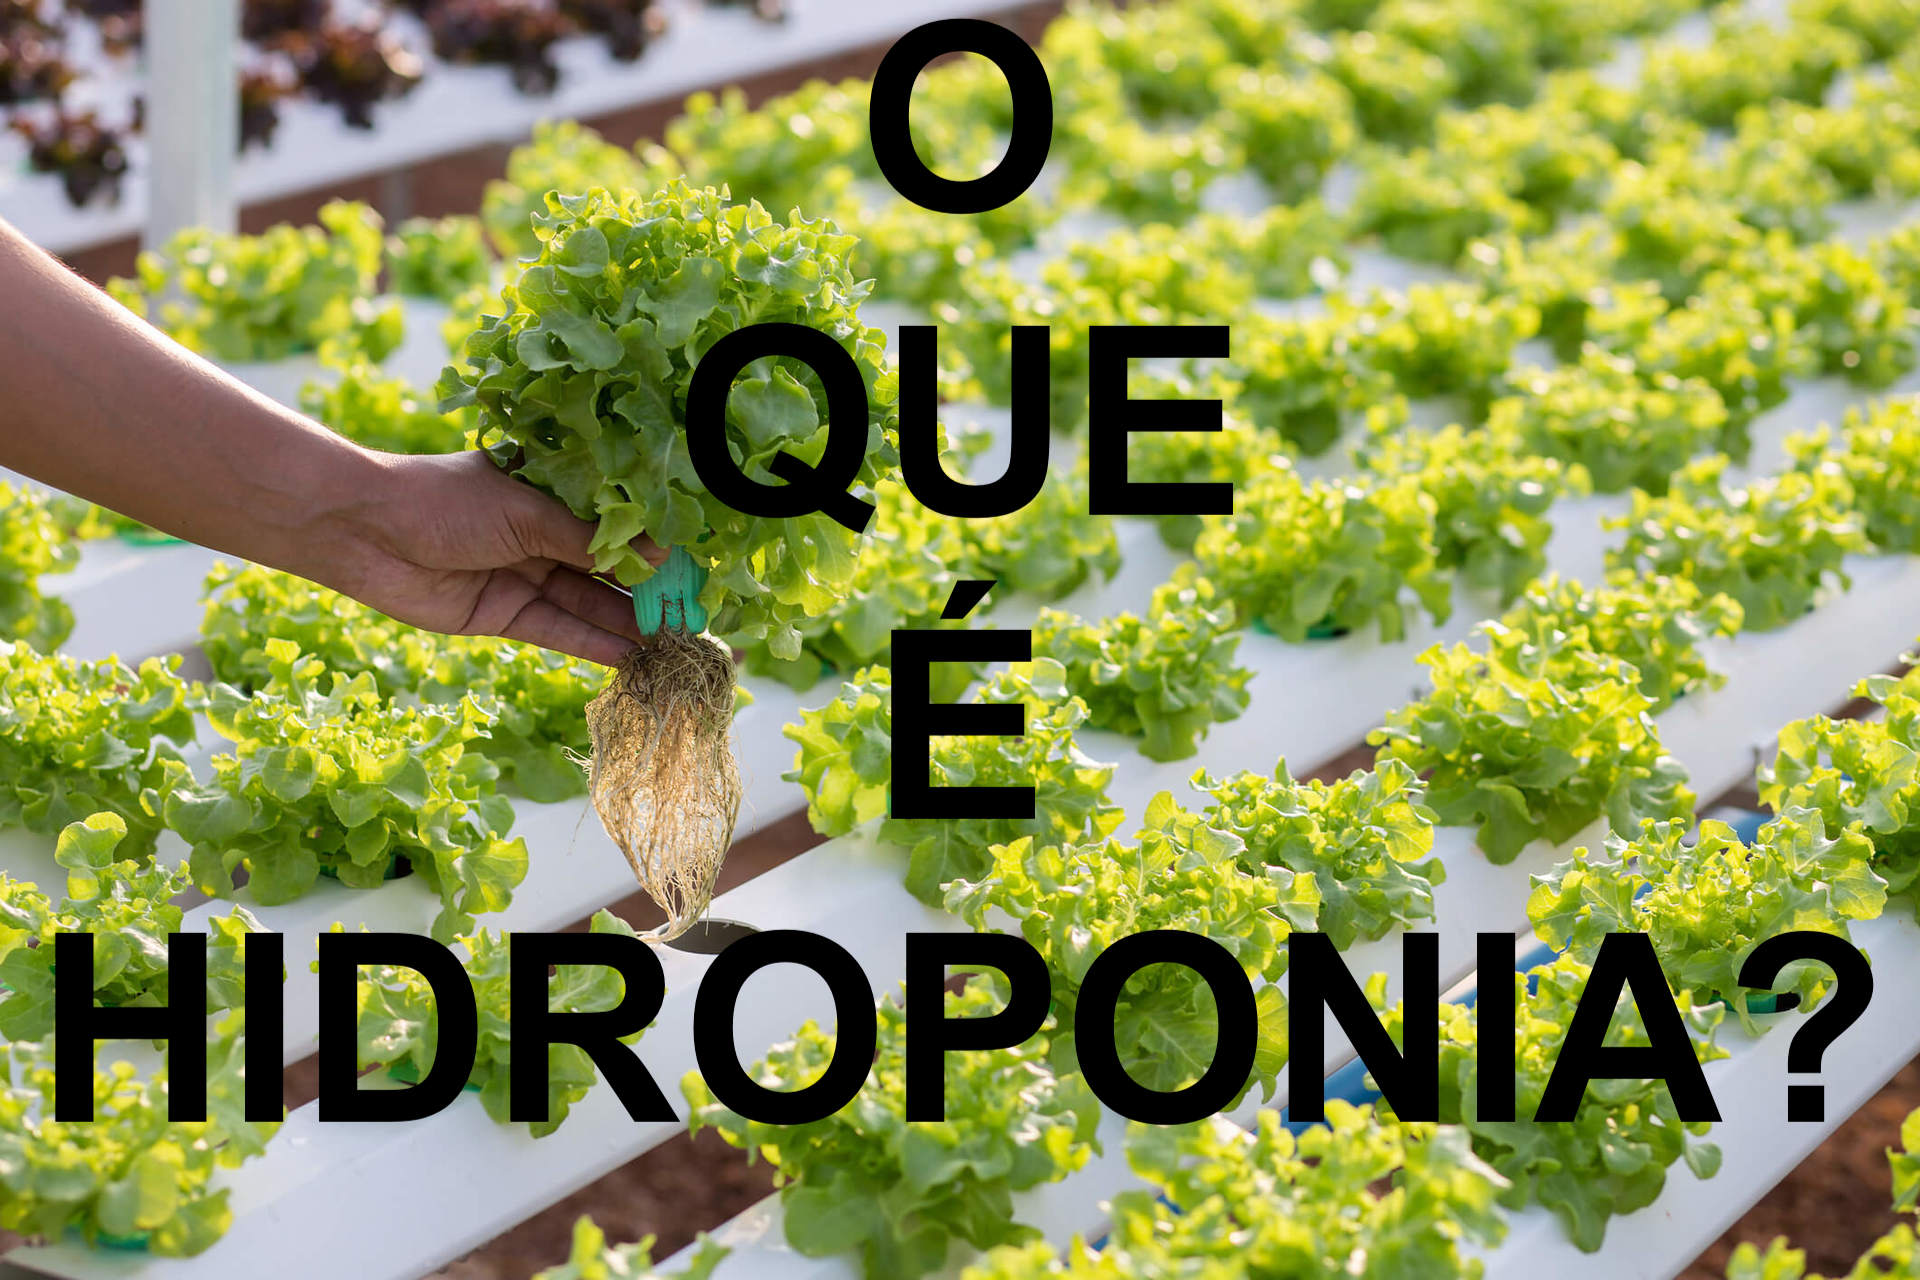
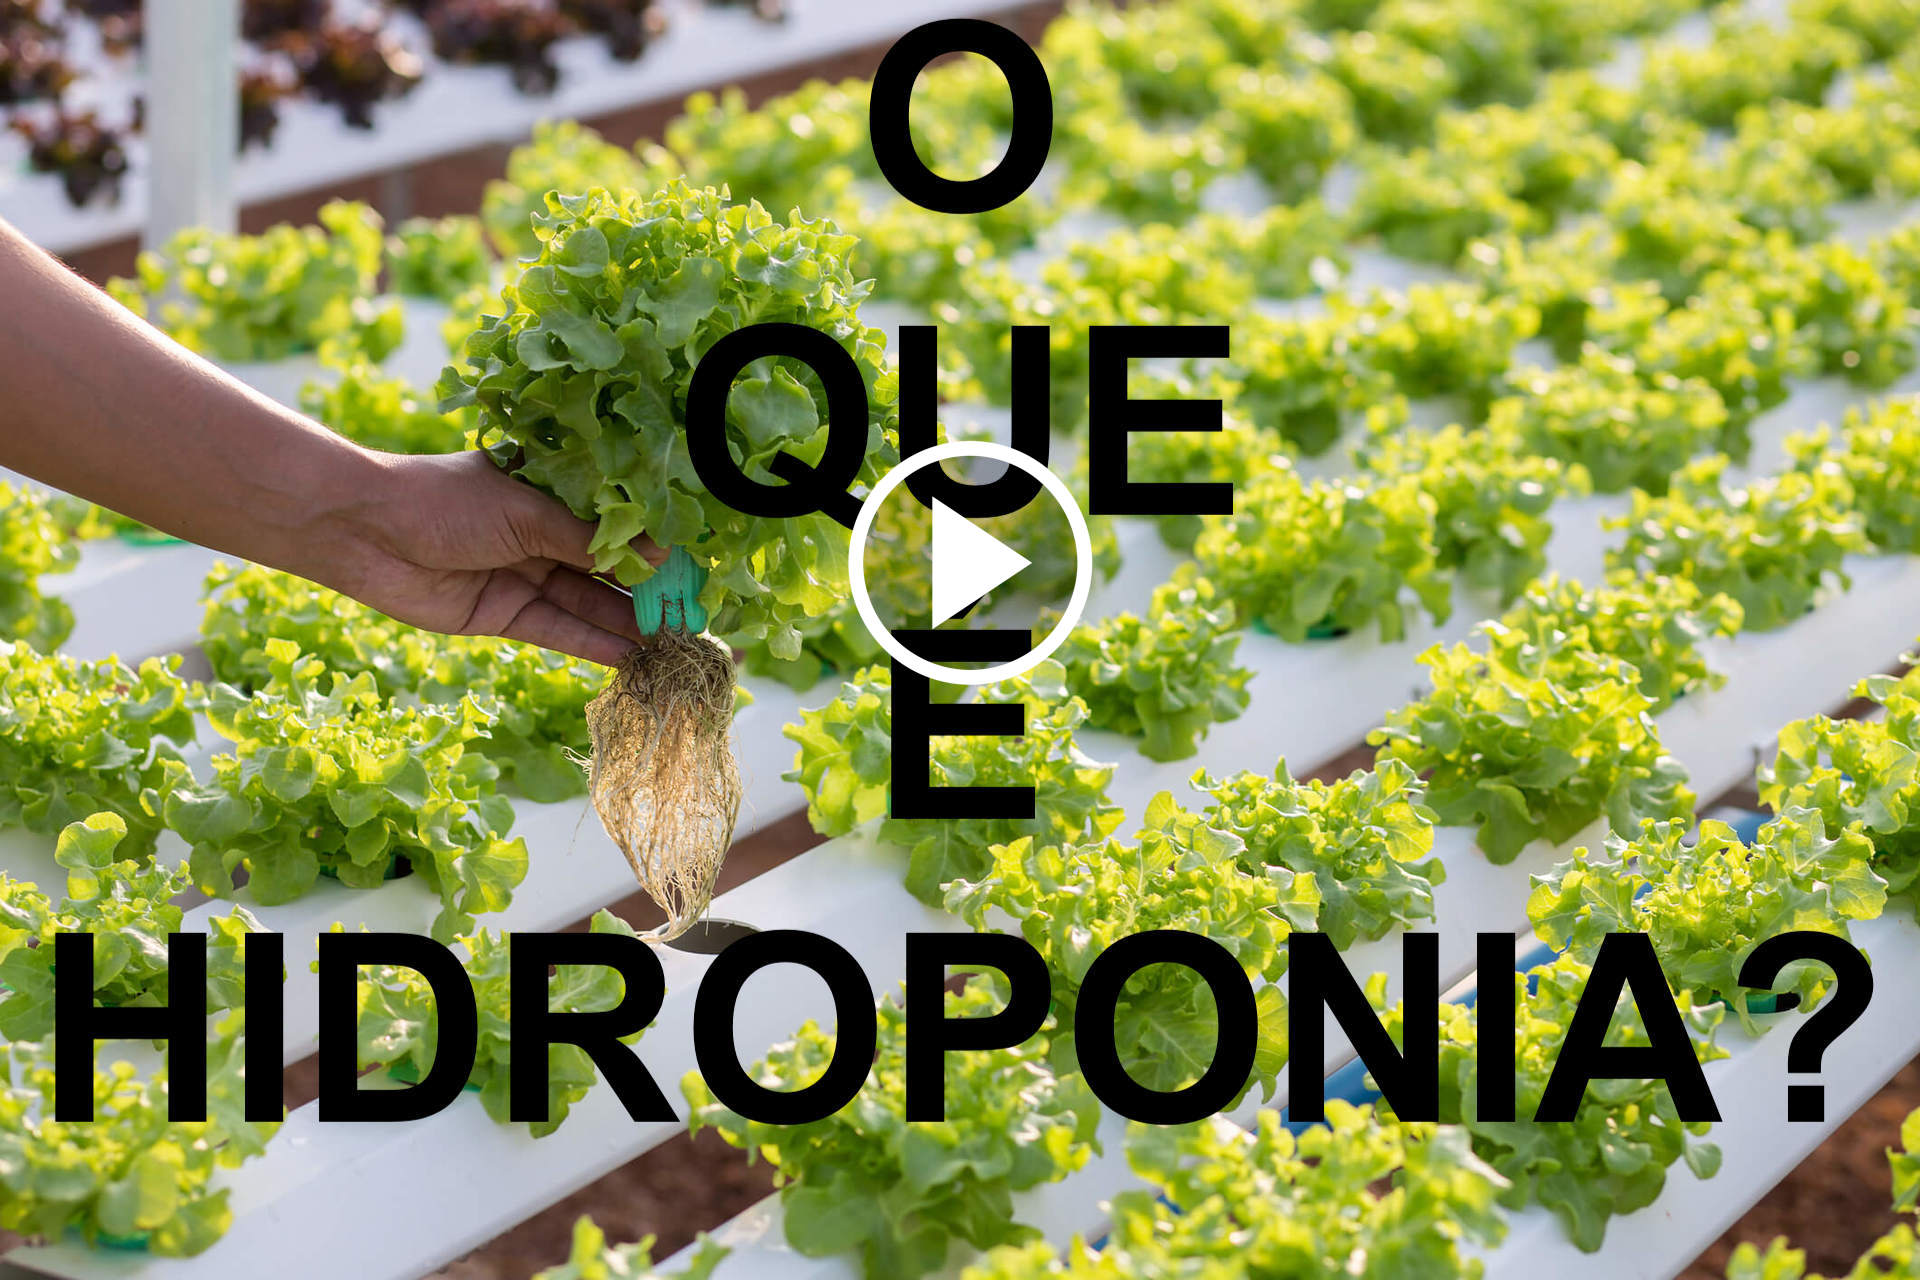
added new text to website

Changed region(s): [[0.4375, 0.3438, 0.5938, 0.5312]]

diff --git a/src/components/layout/Header.js b/src/components/layout/Header.js
@@ -1,7 +1,7 @@
 import React, { useState, useRef, useEffect } from 'react';
 import PropTypes from 'prop-types';
 import classNames from 'classnames';
-import { Link } from 'react-router-dom';
+// import { Link } from 'react-router-dom';
 import Logo from './partials/Logo';
 
 const propTypes = {
@@ -66,7 +66,7 @@ const Header = ({
     if (!nav.current) return
     if (!isActive || nav.current.contains(e.target) || e.target === hamburger.current) return;
     closeMenu();
-  }  
+  }
 
   const classes = classNames(
     'site-header',
@@ -112,7 +112,7 @@ const Header = ({
                       navPosition && `header-nav-${navPosition}`
                     )}>
                     <li>
-                      <Link to="#0" onClick={closeMenu}>Documentation</Link>
+                      {/* <Link to="#0" onClick={closeMenu}>Documentation</Link> */}
                     </li>
                   </ul>
                   {!hideSignin &&
@@ -120,7 +120,7 @@ const Header = ({
                       className="list-reset header-nav-right"
                     >
                       <li>
-                        <Link to="#0" className="button button-primary button-wide-mobile button-sm" onClick={closeMenu}>Sign up</Link>
+                        {/* <Link to="#0" className="button button-primary button-wide-mobile button-sm" onClick={closeMenu}>Sign up</Link> */}
                       </li>
                     </ul>}
                 </div>

diff --git a/src/components/layout/partials/FooterSocial.js b/src/components/layout/partials/FooterSocial.js
@@ -17,7 +17,7 @@ const FooterSocial = ({
       className={classes}
     >
       <ul className="list-reset">
-        <li>
+        {/* <li>
           <a href="https://facebook.com/">
             <svg
               width="16"
@@ -42,9 +42,9 @@ const FooterSocial = ({
                 d="M16 3c-.6.3-1.2.4-1.9.5.7-.4 1.2-1 1.4-1.8-.6.4-1.3.6-2.1.8-.6-.6-1.5-1-2.4-1-1.7 0-3.2 1.5-3.2 3.3 0 .3 0 .5.1.7-2.7-.1-5.2-1.4-6.8-3.4-.3.5-.4 1-.4 1.7 0 1.1.6 2.1 1.5 2.7-.5 0-1-.2-1.5-.4C.7 7.7 1.8 9 3.3 9.3c-.3.1-.6.1-.9.1-.2 0-.4 0-.6-.1.4 1.3 1.6 2.3 3.1 2.3-1.1.9-2.5 1.4-4.1 1.4H0c1.5.9 3.2 1.5 5 1.5 6 0 9.3-5 9.3-9.3v-.4C15 4.3 15.6 3.7 16 3z" />
             </svg>
           </a>
-        </li>
+        </li> */}
         <li>
-          <a href="https://google.com/">
+          <a href="https://instagram.com/freya.hidroponia">
             <svg
               width="16"
               height="16"

diff --git a/src/components/sections/Hero.js b/src/components/sections/Hero.js
@@ -87,7 +87,7 @@ const Hero = ({
           </div>
           <div className="hero-figure reveal-from-bottom illustration-element-01" data-reveal-value="20px" data-reveal-delay="800">
             <a
-              data-video="https://www.youtube.com/watch?v=ojAAZiW3J-8"
+              data-video="https://video.wixstatic.com/video/2a75ae_5956b9ae4b2d453fb3a0b94b43e304f3/720p/mp4/file.mp4"
               href="#0"
               aria-controls="video-modal"
               onClick={openModal}
@@ -104,7 +104,7 @@ const Hero = ({
             id="video-modal"
             show={videoModalActive}
             handleClose={closeModal}
-            video="https://www.youtube.com/watch?v=ojAAZiW3J-8"
+            video="https://video.wixstatic.com/video/2a75ae_5956b9ae4b2d453fb3a0b94b43e304f3/720p/mp4/file.mp4"
             videoTag="iframe" />
         </div>
       </div>

diff --git a/src/components/layout/partials/FooterNav.js b/src/components/layout/partials/FooterNav.js
@@ -19,16 +19,13 @@ const FooterNav = ({
     >
       <ul className="list-reset">
         <li>
-          <Link to="#0">Contact</Link>
+          <a href="https://lucasnicolaudevelo.wixsite.com/freya/o-que-%C3%A9-hidroponia">O que é Hidroponia?</a>
         </li>
         <li>
-          <Link to="#0">About us</Link>
+          <a href="https://lucasnicolaudevelo.wixsite.com/freya/contato">Contato</a>
         </li>
         <li>
-          <Link to="#0">FAQ's</Link>
-        </li>
-        <li>
-          <Link to="#0">Support</Link>
+          <a href="https://lucasnicolaudevelo.wixsite.com/freya/faq-s">Perguntas Frequentes</a>
         </li>
       </ul>
     </nav>

diff --git a/src/components/layout/Footer.js b/src/components/layout/Footer.js
@@ -45,7 +45,7 @@ const Footer = ({
           </div>
           <div className="footer-bottom space-between text-xxs invert-order-desktop">
             <FooterNav />
-            <div className="footer-copyright">Made by <a href="https://cruip.com">Cruip</a>. All right reserved</div>
+            <div className="footer-copyright">Feito por <a href="https://lucasnicolaudevelo.wixsite.com/freya">Freya</a>. Todos direitos reservados</div>
           </div>
         </div>
       </div>
